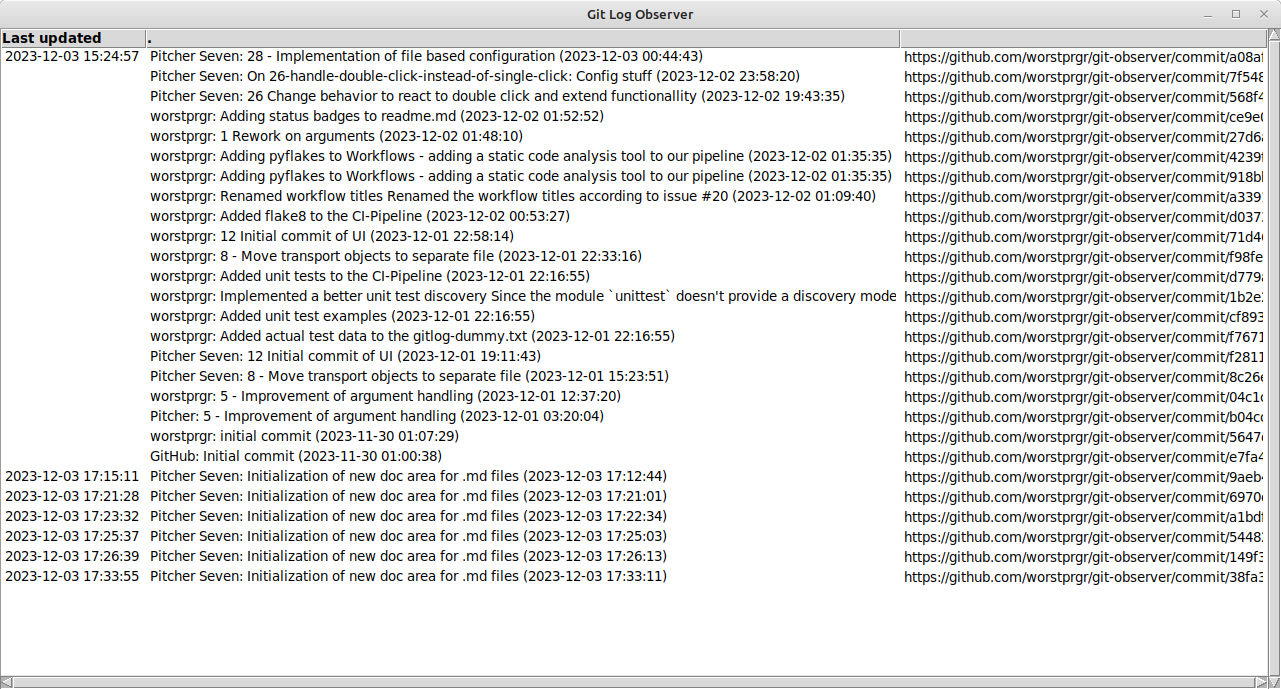
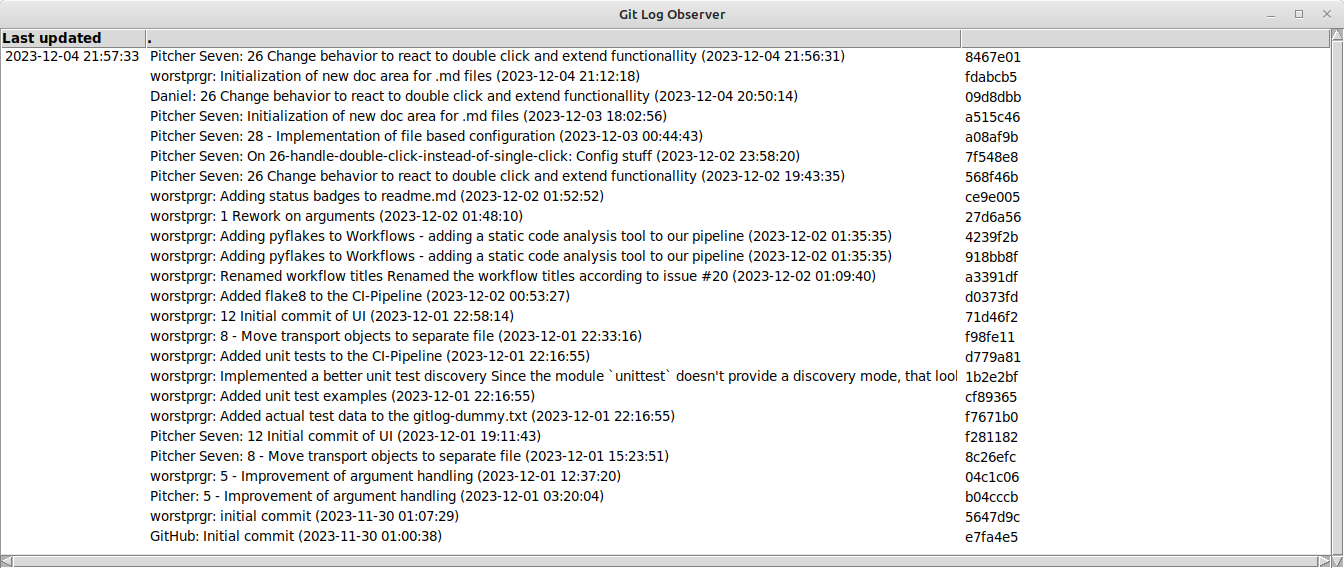
26 - Documentation of UI changes
If applied, the docu get an update regarding made changes.
Additionally there is another screenshot of detail view now embedded

diff --git a/doc/Viewer.md b/doc/Viewer.md
@@ -13,10 +13,32 @@ The _Vewer_ can be called either by passing [argument](./Arguments.md) _-ui/--us
 _Main view on Linux Mint_  
 
 The first column is used to visualize time stamp of observation. Technically, this is the time when the result is print to UI.  
-Each folder has a column for message information "[Author][Title][Author date]" and a column representing the 
-/\*\* TODO \*\*/
+Each folder has a column for message information "[Author][Title][Author date]" and a column representing the SHA1 of corrisponding commit.  
+
+### Origin
+By [argument](./Arguments.md) you can pass a origin which then is used to build a web link with pattern [origin]/[SHA1].  
+This link will be opened in system default web browser by double clicking a SHA1 value  
+This brings the opputunity to check for Pull Requests or further information inside your local Git management system.  
+
+### Commit message
+By double clicking one specific message, a new window pop ups holding the equivalent of  
+`git log --pretty='medium'`  
+<img src="./img/LinuxMint_ViewerDetails.png" alt="Main view on Linux Mint" style="display: block;" width="850px" />  
+_Detail view on Linux Mint_  
 
 ## Supported platforms
 The UI is based on Python TKinter /\*\* TODO: we cannot do that, can we? \*\*/ meaning that the _Vewer_ can be run anywhere, where a commonly used desktop with Python capability runs.  
 Our journey started using **Windows** and continued on **Linux** Mint as well.  
-We quite didn't try, if MacOS is supported running _Viewer_ yet.
+We quite didn't try, if MacOS is supported running _Viewer_ yet.  
+
+## Known Issues  
+### Multi-Mon  
+Currently we know that the details spawn in primary screen. We actually don't see a problem there but this might change in the future  
+
+### Commit message line breaks
+The commit message is presented like we receive it from command line.  
+This of course means that text might get strange line breaks. We plan to implement a enhancement on this.
+
+### Sorting might irritates when used first  
+Our approach is, that the most important information always has to be top message.  
+By this, each blocks content is sorted descending but blocks are sorted ascending. This can be confusing and might change in future releases.  
